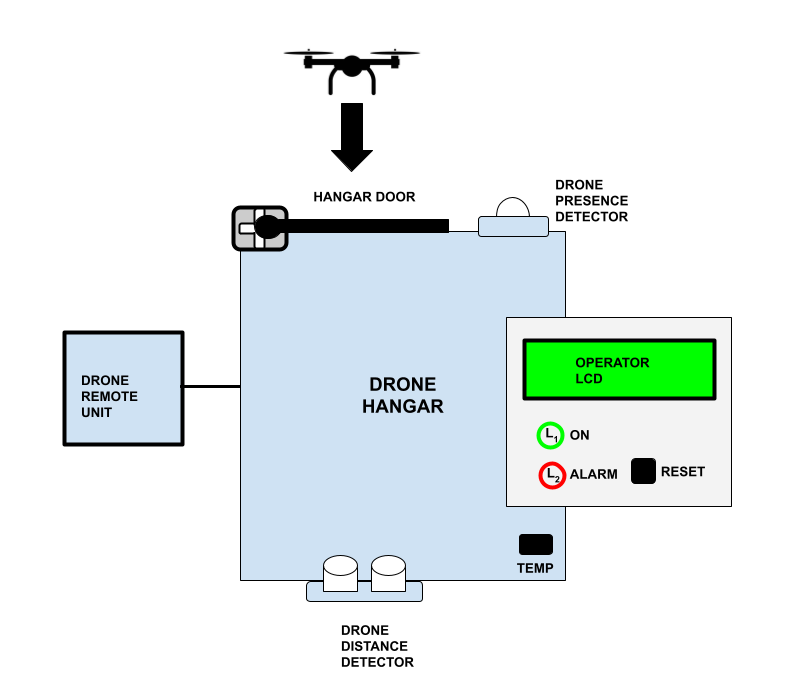
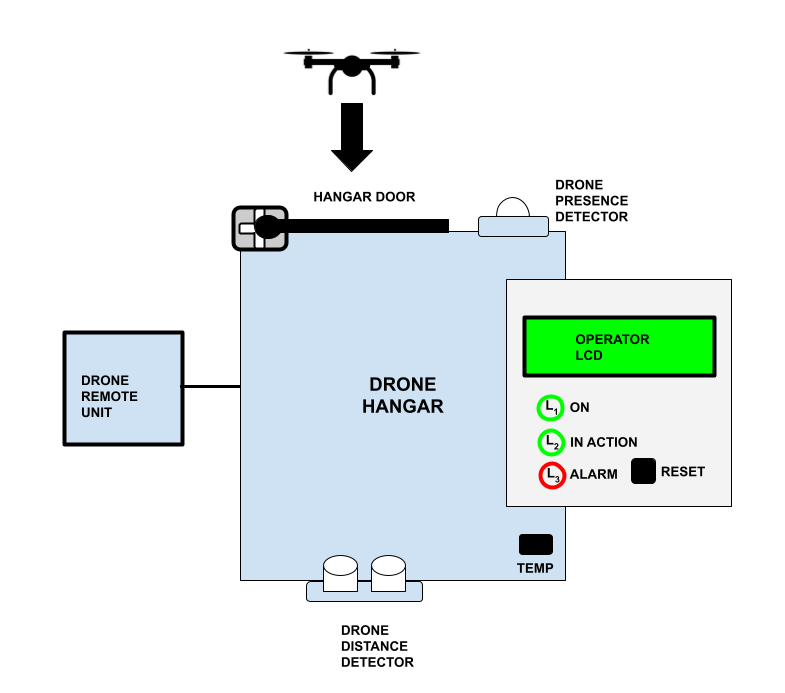
Assignment 02 refinements

Changed region(s): [[0.642, 0.3939, 0.9172, 0.6667]]

diff --git a/docs/assignment-02.md b/docs/assignment-02.md
@@ -2,7 +2,7 @@
 
 ## Assignment #02 - *Smart Drone Hangar* 
 
-v1.0.0-20251112
+v1.1.0-20251112
  
 We want to realise an embedded system called *Smart Drone Hangar*. The prototype  is meant to implement a simple smart hangar for a drone. 
 
